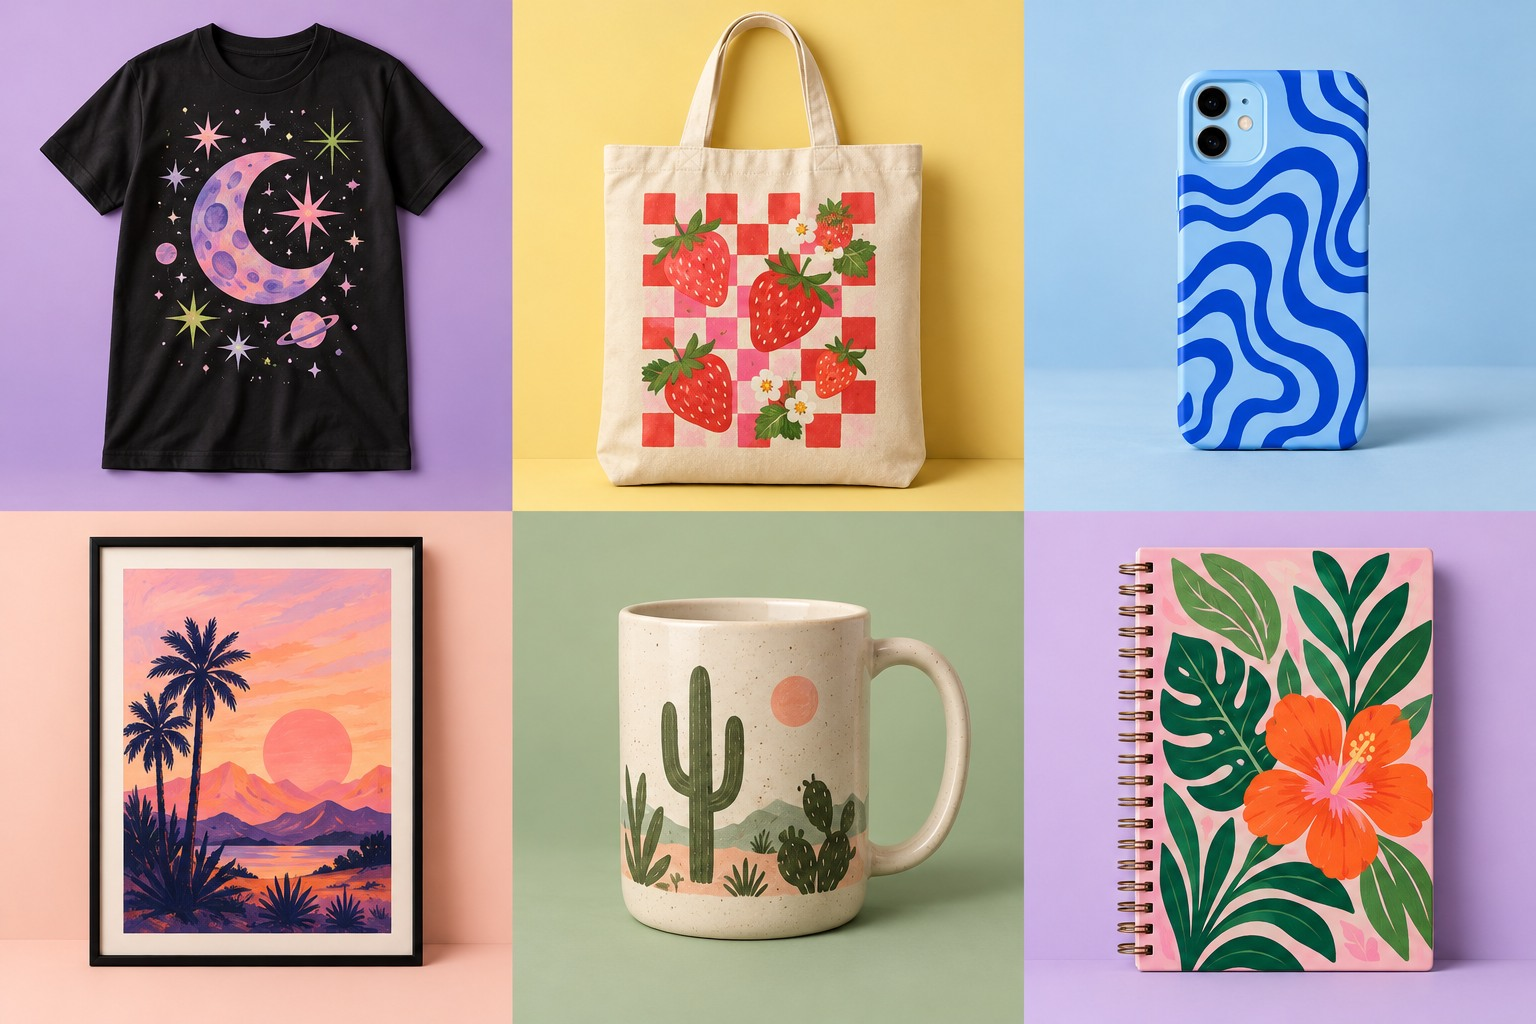
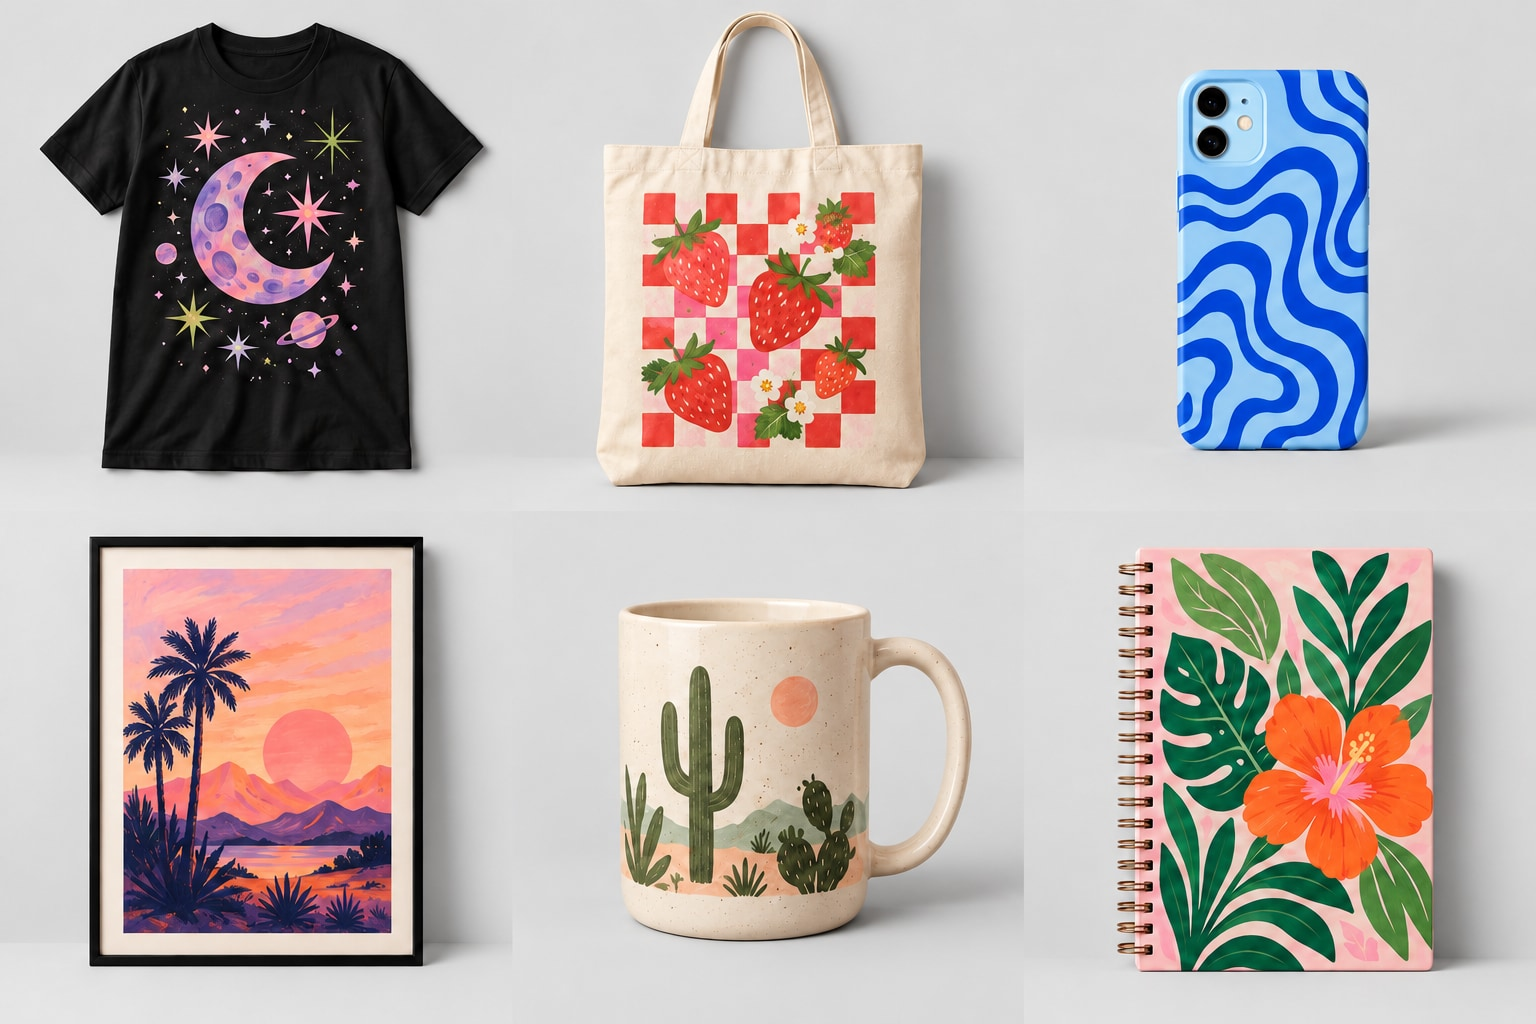
Keep legacy sample backdrops neutral and respect listing print sides

diff --git a/public/assets/storefront.js b/public/assets/storefront.js
@@ -93,7 +93,7 @@ function purchaseChoiceFields(product){
   if(rows.length===1){const row=rows[0],swatch=/^#[a-f0-9]{6}$/i.test(row.hex||'')?row.hex:'#ffffff';groups.push(`<div class="purchase-choice-static"><span>${t(label)}</span><input type="hidden" name="choice_${key}" value="${esc(row.id)}"><strong>${key==='color'?`<span class="static-colour-swatch" style="--swatch:${swatch}" aria-hidden="true"></span>`:''}${esc(localField(row,'label'))}</strong></div>`);continue;}
   groups.push(`<fieldset class="purchase-choice-group"><legend>${t(label)} <strong data-choice-label="${key}">${esc(localField(rows.find(row=>row.id===value),'label'))}</strong></legend><div class="option-buttons ${key==='color'?'colour-options':''}">${rows.map(row=>`<label class="product-option ${key==='color'?'colour-choice':''}" title="${esc(localField(row,'label'))}"><input type="radio" name="choice_${key}" value="${esc(row.id)}" ${value===row.id?'checked':''} required>${key==='color'?`<span class="colour-swatch" style="--swatch:${/^#[a-f0-9]{6}$/i.test(row.hex)?row.hex:'#ffffff'}"><span class="visually-hidden">${esc(localField(row,'label'))}</span></span>`:`<span>${esc(localField(row,'label'))}</span>`}</label>`).join('')}</div></fieldset>`);
  }
- if(config.sides?.length){const shown=product.design_studio?.placements?.shirt?.view==='shirt-back'?'back':'front',value=config.sides.includes(selected.side)?selected.side:config.sides.includes(shown)?shown:config.sides[0];groups.push(`<fieldset class="purchase-choice-group"><legend>${t('Print location')}</legend><div class="option-buttons">${config.sides.map(side=>`<label class="product-option"><input type="radio" name="choice_side" value="${side}" ${value===side?'checked':''} required><span>${t(side==='front'?'Front':'Back')}</span></label>`).join('')}</div></fieldset>`);}
+ if(config.sides?.length){const shown=product.preview_print_side==='back'||product.design_studio?.placements?.shirt?.view==='shirt-back'?'back':'front',value=config.sides.includes(selected.side)?selected.side:config.sides.includes(shown)?shown:config.sides[0];groups.push(`<fieldset class="purchase-choice-group"><legend>${t('Print location')}</legend><div class="option-buttons">${config.sides.map(side=>`<label class="product-option"><input type="radio" name="choice_side" value="${side}" ${value===side?'checked':''} required><span>${t(side==='front'?'Front':'Back')}</span></label>`).join('')}</div></fieldset>`);}
  return groups.join('');
 }
 function choicesFromForm(form){return Object.fromEntries(['color','fit','side'].flatMap(key=>{const value=(form.querySelector(`[name=choice_${key}]:checked`)||form.querySelector(`[name=choice_${key}][type=hidden]`))?.value;return value?[[key,value]]:[];}));}

diff --git a/tests/helpers/storefront-app.js b/tests/helpers/storefront-app.js
@@ -8,7 +8,7 @@ import {defaultPlacement} from '../../public/assets/design-math.js';
 import {renderMockup,ensureMockup} from '../../src/mockup-renderer.js';
 
 // Disposable examples only: no fixture or artwork is installed on a hosted shop.
-export async function storefrontApp(){
+export async function storefrontApp({shirtView='shirt'}={}){
  const folder=await fs.mkdtemp(path.join(os.tmpdir(),'veelad-storefront-')),fixture=await googleApp({uploadDir:folder});
  try{
   await fixture.db.q('DELETE FROM products');
@@ -20,6 +20,7 @@ export async function storefrontApp(){
   }
   for(const [id,category,art,title,title_ar]of [['p1','T-shirts',0,'Neighbourhood Hours','تفاصيل من الحارة'],['p2','Mugs',0,'Neighbourhood Hours Mug','كوب تفاصيل الحارة'],['p3','Notebooks',1,'A Little Lettering','حروف على مهل']]){
    const source=sources[art],type=printProducts.products.find(product=>product.category===category),studio={version:1,template_version:printProducts.version,artwork_id:source.id,active_product:type.id,listing_mockup:true,placements:Object.fromEntries(printProducts.products.map(product=>[product.id,defaultPlacement(product)]))};
+   if(category==='T-shirts')studio.placements.shirt.view=shirtView;
    const mockup=mockupId(source.id,category,studio);await ensureMockup(fixture.config,fixture.db,mockup,'artist-1',()=>renderMockup(source.bytes,category,studio));
    const p={id,title,title_ar,category,upload_id:source.id,mockup_upload_id:mockup,design_studio:studio,variants:category==='T-shirts'?['S','M','L','XL']:['Standard'],price:category==='T-shirts'?9900:4900,description:'An illustrative local fixture. Original art, everyday character and a clean neutral product preview.',description_ar:'مثال محلي توضيحي. تصميم أصيل، وتفاصيل تميّز يومك، ومعاينة واضحة للمنتج.',design_styles:art?['arabic-lettering']:['saudi-nostalgia','vintage-travel'],sample_pricing:true,stock_is_simulated:true,design_group:'fixture-design-'+art,...(category==='T-shirts'?{purchase_options:{confirmed:true,colors:[{id:'white',label:'White',label_ar:'أبيض',hex:'#ffffff'}],fits:[{id:'classic',label:'Classic',label_ar:'عادية'}],sides:['front','back']}}:{})};
    await fixture.db.q('INSERT INTO products VALUES (?,?,?,?,?,?)',[id,'artist-1','active',20,JSON.stringify(p),new Date().toISOString()]);

diff --git a/src/app.js b/src/app.js
@@ -96,7 +96,7 @@ export function createApp(c,db,schema={status:'ready'},mailCheck=checkMail,googl
  api.use((req,res,next)=>req.method==='POST' && ['upload','admin-artwork-restore'].includes(req.query.route) ? upload.single('artwork')(req,res,next) : next());
  const q=db.q, one=db.one;
  const settings=async conn=> {const r=await one('SELECT data FROM settings WHERE id=?',['store'],conn);if(!r) fail(503,'Store provisioning is required.');return json(r.data);};
- const products=async (all=false,artist=null,conn)=> (await q('SELECT * FROM products'+(!all ? " WHERE status='active'" : artist ? ' WHERE artist_id=?' : '')+' ORDER BY created_at DESC,id', all&&artist ? [artist] : [],conn)).map(row=>{const p=product(row);if(!all){delete p.production_notes;delete p.design_studio;}return p;});
+ const products=async (all=false,artist=null,conn)=> (await q('SELECT * FROM products'+(!all ? " WHERE status='active'" : artist ? ' WHERE artist_id=?' : '')+' ORDER BY created_at DESC,id', all&&artist ? [artist] : [],conn)).map(row=>{const p=product(row);if(!all){if(p.category==='T-shirts'&&p.design_studio)p.preview_print_side=p.design_studio.placements?.shirt?.view==='shirt-back'?'back':'front';delete p.production_notes;delete p.design_studio;}return p;});
  const queue=(address,subject,body,conn,options)=>queueMail(c,db,address,subject,body,conn,options);
  const audit=async (u,action,target,conn)=>q('INSERT INTO audit_log VALUES (?,?,?,?,?)',[uid(),u.id,action,String(target),now()],conn);
  const state=async (id,conn)=> {const r=await one('SELECT data FROM customer_state WHERE id=?',[id],conn);return r ? json(r.data) : {cart:[],saved:[],address:[]};};

diff --git a/public/assets/product-gallery.js b/public/assets/product-gallery.js
@@ -155,7 +155,7 @@ window.VeeladProductGallery=(()=>{
  function selectChoices(product,choices){
   const gallery=document.querySelector('.product-gallery');const state=gallery&&states.get(gallery);if(!state||state.product.id!==product.id)return;
   const image=choices?.color?.image_id||choices?.fit?.image_id;
-  const shown=product.design_studio?.placements?.shirt?.view==='shirt-back'?'back':'front';
+  const shown=product.preview_print_side==='back'||product.design_studio?.placements?.shirt?.view==='shirt-back'?'back':'front';
   const unavailable=!!(image&&choices?.side&&choices.side!==shown||choices?.color?.image_id&&choices?.fit?.image_id&&choices.color.image_id!==choices.fit.image_id);
   let notice=gallery.querySelector('.gallery-choice-notice');if(!notice){notice=document.createElement('p');notice.className='gallery-choice-notice notice small';notice.setAttribute('role','status');gallery.append(notice);}notice.hidden=!unavailable;notice.textContent=unavailable?t('An exact preview for this combination is not available. The artwork is shown; your selected options remain listed below.'):'';
   let key=unavailable?'artwork':image?'photo-'+(product.gallery_upload_ids||[]).indexOf(image):choices?.side&&choices.side!==shown?'print-'+choices.side:'primary';

diff --git a/tests/storefront-options.test.js b/tests/storefront-options.test.js
@@ -52,6 +52,7 @@ test('cart state preserves separate option combinations and checkout snapshots e
  assert.equal((await fixture.db.one('SELECT stock FROM products WHERE id=?',['p1'])).stock,18);
  const edited=structuredClone(listing);edited.purchase_options.colors[1].label='Charcoal';assert.equal((await call('admin-product',edited)).status,200);
  const saved=JSON.parse((await fixture.db.one('SELECT data FROM orders WHERE id=?',[order.id])).data);assert.equal(saved.items.find(item=>item.purchase_choices.side==='back').purchase_choices.color.label,'Black');
+ edited.design_studio.placements.shirt.view='shirt-back';assert.equal((await call('admin-product',edited)).status,200);const publicListing=(await call('bootstrap')).body.products.find(row=>row.id==='p1');assert.equal(publicListing.preview_print_side,'back');assert.equal(publicListing.design_studio,undefined);
 });
 test('configured shipping coverage rejects unsupported destinations without consuming stock',async()=>{
  const settings=JSON.parse((await fixture.db.one('SELECT data FROM settings WHERE id=?',['store'])).data);settings.shipping_countries=['US'];await fixture.db.q('UPDATE settings SET data=? WHERE id=?',[JSON.stringify(settings),'store']);

diff --git a/tests/browser/storefront.spec.js b/tests/browser/storefront.spec.js
@@ -51,3 +51,13 @@ test('neutral galleries show the actual artwork on models and print sides while 
   expect(errors).toEqual([]);
  }finally{await page.goto('about:blank').catch(()=>{});await fixture.close();}
 });
+
+
+test('back-print listings start with the displayed side selected without exposing private placement data',async({page})=>{
+ test.setTimeout(60000);const fixture=await storefrontApp({shirtView:'shirt-back'});
+ try{
+  await page.goto(fixture.origin+'/ar/products/p1');await expect(page.locator('[name=choice_side][value=back]')).toBeChecked();
+  await page.locator('[name=choice_side][value=front]').check();await expect(page.locator('[data-view-key=print-front]')).toHaveAttribute('aria-selected','true');
+  await page.locator('[name=choice_side][value=back]').check();await expect(page.locator('[data-view-key=primary]')).toHaveAttribute('aria-selected','true');
+ }finally{await page.goto('about:blank').catch(()=>{});await fixture.close();}
+});

diff --git a/docs/GLOBAL-STOREFRONT.md b/docs/GLOBAL-STOREFRONT.md
@@ -10,7 +10,7 @@ General discovery and the homepage favour distinct originals rather than putting
 
 ## Neutral mockups and model views
 
-Nine blank product views were edited with the image-generation tool to replace the lavender backdrop with neutral grey while retaining the product composition. Two new, diverse adult model views and three international campaign scenes were generated. These are illustrative assets, not supplier photography or customer testimonials. Captions preserve that distinction. Original uploaded artwork is applied locally by the deterministic renderer; it is never sent to the image model.
+Nine blank product views were edited with the image-generation tool to replace the lavender backdrop with neutral grey while retaining the product composition. Two new, diverse adult model views and three international campaign scenes were generated. The two older six-product sample sheets (`catalog.jpg` and `catalog-2.jpg`) also received neutral backdrops through the image tool, retaining their six-cell layout. These demo images are separate from seller originals. These are illustrative assets, not supplier photography or customer testimonials. Captions preserve that distinction. Original uploaded artwork is applied locally by the deterministic renderer; it is never sent to the image model.
 
 `tools/photo-surfaces.json` records the printable surfaces. `tools/prepare-photo-mockups.js` prepares WebP bases and meshes. The renderer version is `veelad-neutral-2`. Logical print placement and template version remain unchanged. `mockupMatches` also recognises the prior `veelad-photo-1` and original renderer IDs. When a listing preview is requested, the existing upgrade path creates a fresh derivative with the current renderer. It does not overwrite native originals, old derivative files, saved placements, prices or order records. Backups may therefore contain additional generated derivatives after the first visits.
 
@@ -22,7 +22,7 @@ Open **Administrator → Products → Edit product → Confirmed product choices
 
 The `purchase_options` product field is additive JSON. The server validates groups, references, bounded text, swatches, ownership through the gallery list, and supported print locations. Artists cannot change these administrator-confirmed sale options. Changing an original or category through a legacy/artist edit removes confirmation; the administrator must review the new listing.
 
-Customers select only confirmed choices. A matching uploaded option photo is selected when available, and changing a print side selects its corresponding rendered preview. When a combined colour/fit/side selection has no matching photo, the gallery shows the artwork and an explicit notice instead of claiming an exact product preview. Single fixed colours or fits appear as labelled values; multi-option groups use buttons and swatches. Browsing other gallery views does not change the purchase selection. Colour, fit and side are included in the bag key so combinations stay separate. The server resolves the selected identifiers against current product data, rejects unavailable or incomplete choices, and snapshots trusted labels into the order. A selected print side also updates the order's saved placement. The bag, production order and printable/JSON job sheets show the choices. A later product edit cannot rewrite a past order's choices. Prices and stock remain per listing; there are no option surcharges or separate SKU inventories in this release.
+Customers select only confirmed choices. A matching uploaded option photo is selected when available, and changing a print side selects its corresponding rendered preview. When a combined colour/fit/side selection has no matching photo, the gallery shows the artwork and an explicit notice instead of claiming an exact product preview. Single fixed colours or fits appear as labelled values; multi-option groups use buttons and swatches. The public catalogue exposes only the preview print side, while saved placement instructions remain private. A back-print listing starts with its displayed side selected. Browsing other gallery views does not change the purchase selection. Colour, fit and side are included in the bag key so combinations stay separate. The server resolves the selected identifiers against current product data, rejects unavailable or incomplete choices, and snapshots trusted labels into the order. A selected print side also updates the order's saved placement. The bag, production order and printable/JSON job sheets show the choices. A later product edit cannot rewrite a past order's choices. Prices and stock remain per listing; there are no option surcharges or separate SKU inventories in this release.
 
 Personalised items carry the same confirmed choices through their bag lines. Their editor draft continues to save artwork and placement; physical choices are retained in the current browser selection and bag rather than added to the draft schema. Review them before adding a reopened draft to the bag.
 
